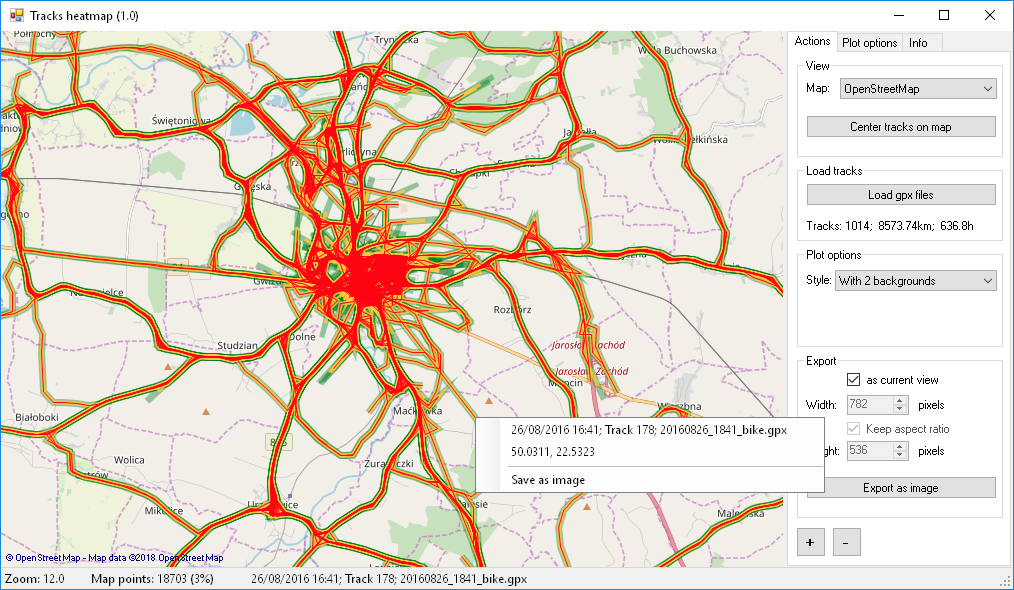
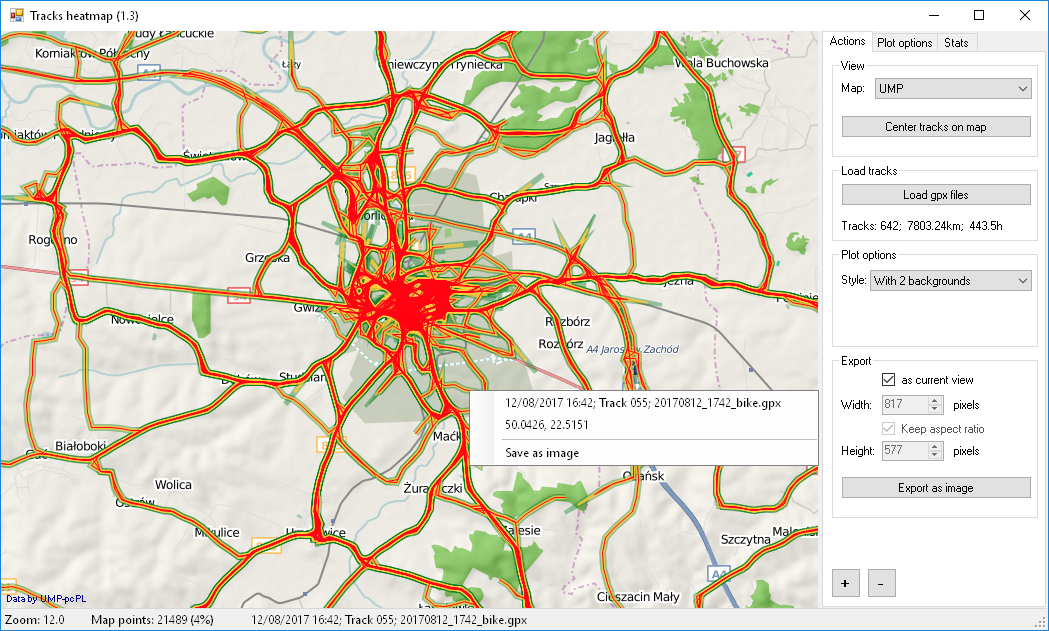
UMP-pcPL map added Simple track browser

diff --git a/TracksHeatmap/StatsForm.Designer.cs b/TracksHeatmap/StatsForm.Designer.cs
@@ -28,6 +28,9 @@
         /// </summary>
         private void InitializeComponent()
         {
+            System.Windows.Forms.DataVisualization.Charting.ChartArea chartArea1 = new System.Windows.Forms.DataVisualization.Charting.ChartArea();
+            System.Windows.Forms.DataVisualization.Charting.Legend legend1 = new System.Windows.Forms.DataVisualization.Charting.Legend();
+            System.Windows.Forms.DataVisualization.Charting.Series series1 = new System.Windows.Forms.DataVisualization.Charting.Series();
             this.tabControl1 = new System.Windows.Forms.TabControl();
             this.tabPageTracksBrowser = new System.Windows.Forms.TabPage();
             this.tableLayoutTracksBrowser = new System.Windows.Forms.TableLayoutPanel();
@@ -43,6 +46,12 @@
             this.lblMapPoints = new System.Windows.Forms.ToolStripStatusLabel();
             this.lblTracksPosition = new System.Windows.Forms.Label();
             this.txtTracksBrowserInfo = new System.Windows.Forms.TextBox();
+            this.tabPageActivityStats = new System.Windows.Forms.TabPage();
+            this.tableLayoutActivityStats = new System.Windows.Forms.TableLayoutPanel();
+            this.cmbActivityRange = new System.Windows.Forms.ComboBox();
+            this.panel2 = new System.Windows.Forms.Panel();
+            this.lblActivityStatsTitle = new System.Windows.Forms.Label();
+            this.chartActivityStats = new System.Windows.Forms.DataVisualization.Charting.Chart();
             this.tabControl1.SuspendLayout();
             this.tabPageTracksBrowser.SuspendLayout();
             this.tableLayoutTracksBrowser.SuspendLayout();
@@ -52,6 +61,10 @@
             this.splitContainerTracksBrowser.Panel2.SuspendLayout();
             this.splitContainerTracksBrowser.SuspendLayout();
             this.statusStrip1.SuspendLayout();
+            this.tabPageActivityStats.SuspendLayout();
+            this.tableLayoutActivityStats.SuspendLayout();
+            this.panel2.SuspendLayout();
+            ((System.ComponentModel.ISupportInitialize)(this.chartActivityStats)).BeginInit();
             this.SuspendLayout();
             // 
             // tabControl1
@@ -60,6 +73,7 @@
             | System.Windows.Forms.AnchorStyles.Left) 
             | System.Windows.Forms.AnchorStyles.Right)));
             this.tabControl1.Controls.Add(this.tabPageTracksBrowser);
+            this.tabControl1.Controls.Add(this.tabPageActivityStats);
             this.tabControl1.Location = new System.Drawing.Point(0, 0);
             this.tabControl1.Name = "tabControl1";
             this.tabControl1.SelectedIndex = 0;
@@ -254,6 +268,76 @@
             this.txtTracksBrowserInfo.Size = new System.Drawing.Size(145, 212);
             this.txtTracksBrowserInfo.TabIndex = 4;
             // 
+            // tabPageActivityStats
+            // 
+            this.tabPageActivityStats.Controls.Add(this.tableLayoutActivityStats);
+            this.tabPageActivityStats.Location = new System.Drawing.Point(4, 22);
+            this.tabPageActivityStats.Name = "tabPageActivityStats";
+            this.tabPageActivityStats.Size = new System.Drawing.Size(1154, 519);
+            this.tabPageActivityStats.TabIndex = 1;
+            this.tabPageActivityStats.Text = "Activity stats";
+            this.tabPageActivityStats.UseVisualStyleBackColor = true;
+            // 
+            // tableLayoutActivityStats
+            // 
+            this.tableLayoutActivityStats.ColumnCount = 1;
+            this.tableLayoutActivityStats.ColumnStyles.Add(new System.Windows.Forms.ColumnStyle(System.Windows.Forms.SizeType.Percent, 100F));
+            this.tableLayoutActivityStats.Controls.Add(this.panel2, 0, 0);
+            this.tableLayoutActivityStats.Controls.Add(this.chartActivityStats, 0, 1);
+            this.tableLayoutActivityStats.Dock = System.Windows.Forms.DockStyle.Fill;
+            this.tableLayoutActivityStats.Location = new System.Drawing.Point(0, 0);
+            this.tableLayoutActivityStats.Name = "tableLayoutActivityStats";
+            this.tableLayoutActivityStats.RowCount = 2;
+            this.tableLayoutActivityStats.RowStyles.Add(new System.Windows.Forms.RowStyle(System.Windows.Forms.SizeType.Absolute, 32F));
+            this.tableLayoutActivityStats.RowStyles.Add(new System.Windows.Forms.RowStyle());
+            this.tableLayoutActivityStats.Size = new System.Drawing.Size(1154, 519);
+            this.tableLayoutActivityStats.TabIndex = 0;
+            // 
+            // cmbActivityRange
+            // 
+            this.cmbActivityRange.FormattingEnabled = true;
+            this.cmbActivityRange.Location = new System.Drawing.Point(0, 3);
+            this.cmbActivityRange.Name = "cmbActivityRange";
+            this.cmbActivityRange.Size = new System.Drawing.Size(121, 21);
+            this.cmbActivityRange.TabIndex = 4;
+            this.cmbActivityRange.SelectedIndexChanged += new System.EventHandler(this.cmbActivityRange_SelectedIndexChanged);
+            // 
+            // panel2
+            // 
+            this.panel2.Controls.Add(this.lblActivityStatsTitle);
+            this.panel2.Controls.Add(this.cmbActivityRange);
+            this.panel2.Dock = System.Windows.Forms.DockStyle.Fill;
+            this.panel2.Location = new System.Drawing.Point(3, 3);
+            this.panel2.Name = "panel2";
+            this.panel2.Size = new System.Drawing.Size(1148, 26);
+            this.panel2.TabIndex = 1;
+            // 
+            // lblActivityStatsTitle
+            // 
+            this.lblActivityStatsTitle.AutoSize = true;
+            this.lblActivityStatsTitle.Location = new System.Drawing.Point(172, 6);
+            this.lblActivityStatsTitle.Name = "lblActivityStatsTitle";
+            this.lblActivityStatsTitle.Size = new System.Drawing.Size(95, 13);
+            this.lblActivityStatsTitle.TabIndex = 5;
+            this.lblActivityStatsTitle.Text = "lblActivityStatsTitle";
+            // 
+            // chartActivityStats
+            // 
+            chartArea1.Name = "ChartArea1";
+            this.chartActivityStats.ChartAreas.Add(chartArea1);
+            this.chartActivityStats.Dock = System.Windows.Forms.DockStyle.Fill;
+            legend1.Name = "Legend1";
+            this.chartActivityStats.Legends.Add(legend1);
+            this.chartActivityStats.Location = new System.Drawing.Point(3, 35);
+            this.chartActivityStats.Name = "chartActivityStats";
+            series1.ChartArea = "ChartArea1";
+            series1.Legend = "Legend1";
+            series1.Name = "Series1";
+            this.chartActivityStats.Series.Add(series1);
+            this.chartActivityStats.Size = new System.Drawing.Size(1148, 481);
+            this.chartActivityStats.TabIndex = 2;
+            this.chartActivityStats.Text = "chart1";
+            // 
             // StatsForm
             // 
             this.AutoScaleDimensions = new System.Drawing.SizeF(6F, 13F);
@@ -276,6 +360,11 @@
             this.splitContainerTracksBrowser.ResumeLayout(false);
             this.statusStrip1.ResumeLayout(false);
             this.statusStrip1.PerformLayout();
+            this.tabPageActivityStats.ResumeLayout(false);
+            this.tableLayoutActivityStats.ResumeLayout(false);
+            this.panel2.ResumeLayout(false);
+            this.panel2.PerformLayout();
+            ((System.ComponentModel.ISupportInitialize)(this.chartActivityStats)).EndInit();
             this.ResumeLayout(false);
             this.PerformLayout();
 
@@ -298,5 +387,11 @@
         private System.Windows.Forms.ToolStripStatusLabel lblMapPoints;
         private System.Windows.Forms.Label lblTracksPosition;
         private System.Windows.Forms.TextBox txtTracksBrowserInfo;
+        private System.Windows.Forms.TabPage tabPageActivityStats;
+        private System.Windows.Forms.TableLayoutPanel tableLayoutActivityStats;
+        private System.Windows.Forms.Panel panel2;
+        private System.Windows.Forms.Label lblActivityStatsTitle;
+        private System.Windows.Forms.ComboBox cmbActivityRange;
+        private System.Windows.Forms.DataVisualization.Charting.Chart chartActivityStats;
     }
 }

diff --git a/TracksHeatmap/StatsForm.cs b/TracksHeatmap/StatsForm.cs
@@ -11,11 +11,13 @@ using System.Linq;
 using System.Text;
 using System.Threading.Tasks;
 using System.Windows.Forms;
+using System.Windows.Forms.DataVisualization.Charting;
 
 namespace TracksHeatmap
 {
     public partial class StatsForm : Form
     {
+        enum Ranges { Yearly, Monthly, Daily }
         private int currentTrackIdx;
 
         public List<Track> Tracks;
@@ -25,6 +27,14 @@ namespace TracksHeatmap
         public StatsForm()
         {
             InitializeComponent();
+
+            var ranges = Enum.GetValues(typeof(Ranges)).Cast<Ranges>();
+            foreach (var range in ranges)
+            {
+                cmbActivityRange.Items.Add(range.ToString());
+            }
+
+            tabControl1.TabPages.Remove(tabPageActivityStats);
         }
 
         private void btnZoomIn_Click(object sender, EventArgs e)
@@ -123,5 +133,22 @@ namespace TracksHeatmap
         {
             LoadTrackToMap(this.currentTrackIdx, true);
         }
+
+        private void cmbActivityRange_SelectedIndexChanged(object sender, EventArgs e)
+        {
+            //ShowActivityStats();
+        }
+
+        //private void ShowActivityStats()
+        //{
+        //    this.chartActivityStats.ChartAreas[0].AxisX.Minimum = 5;
+
+        //    for (int i = 0; i < 12; i++)
+        //    {
+        //        DataPoint point = new DataPoint(i + 1, i * 2);
+        //        point.AxisLabel = "aa";
+        //        this.chartActivityStats.Series[0].Points.Add(point);
+        //    }
+        //}
     }
 }

diff --git a/TracksHeatmap/MainForm.cs b/TracksHeatmap/MainForm.cs
@@ -40,6 +40,7 @@ namespace TracksHeatmap
             mapTypes.Add(GMapProviders.OpenStreetMap);
             mapTypes.Add(GMapProviders.YandexMap);
             mapTypes.Add(GMapProviders.WikiMapiaMap);
+            mapTypes.Add(GMapProviders.UMPMap);
 
             foreach (GMapProvider mapType in mapTypes)
             {
